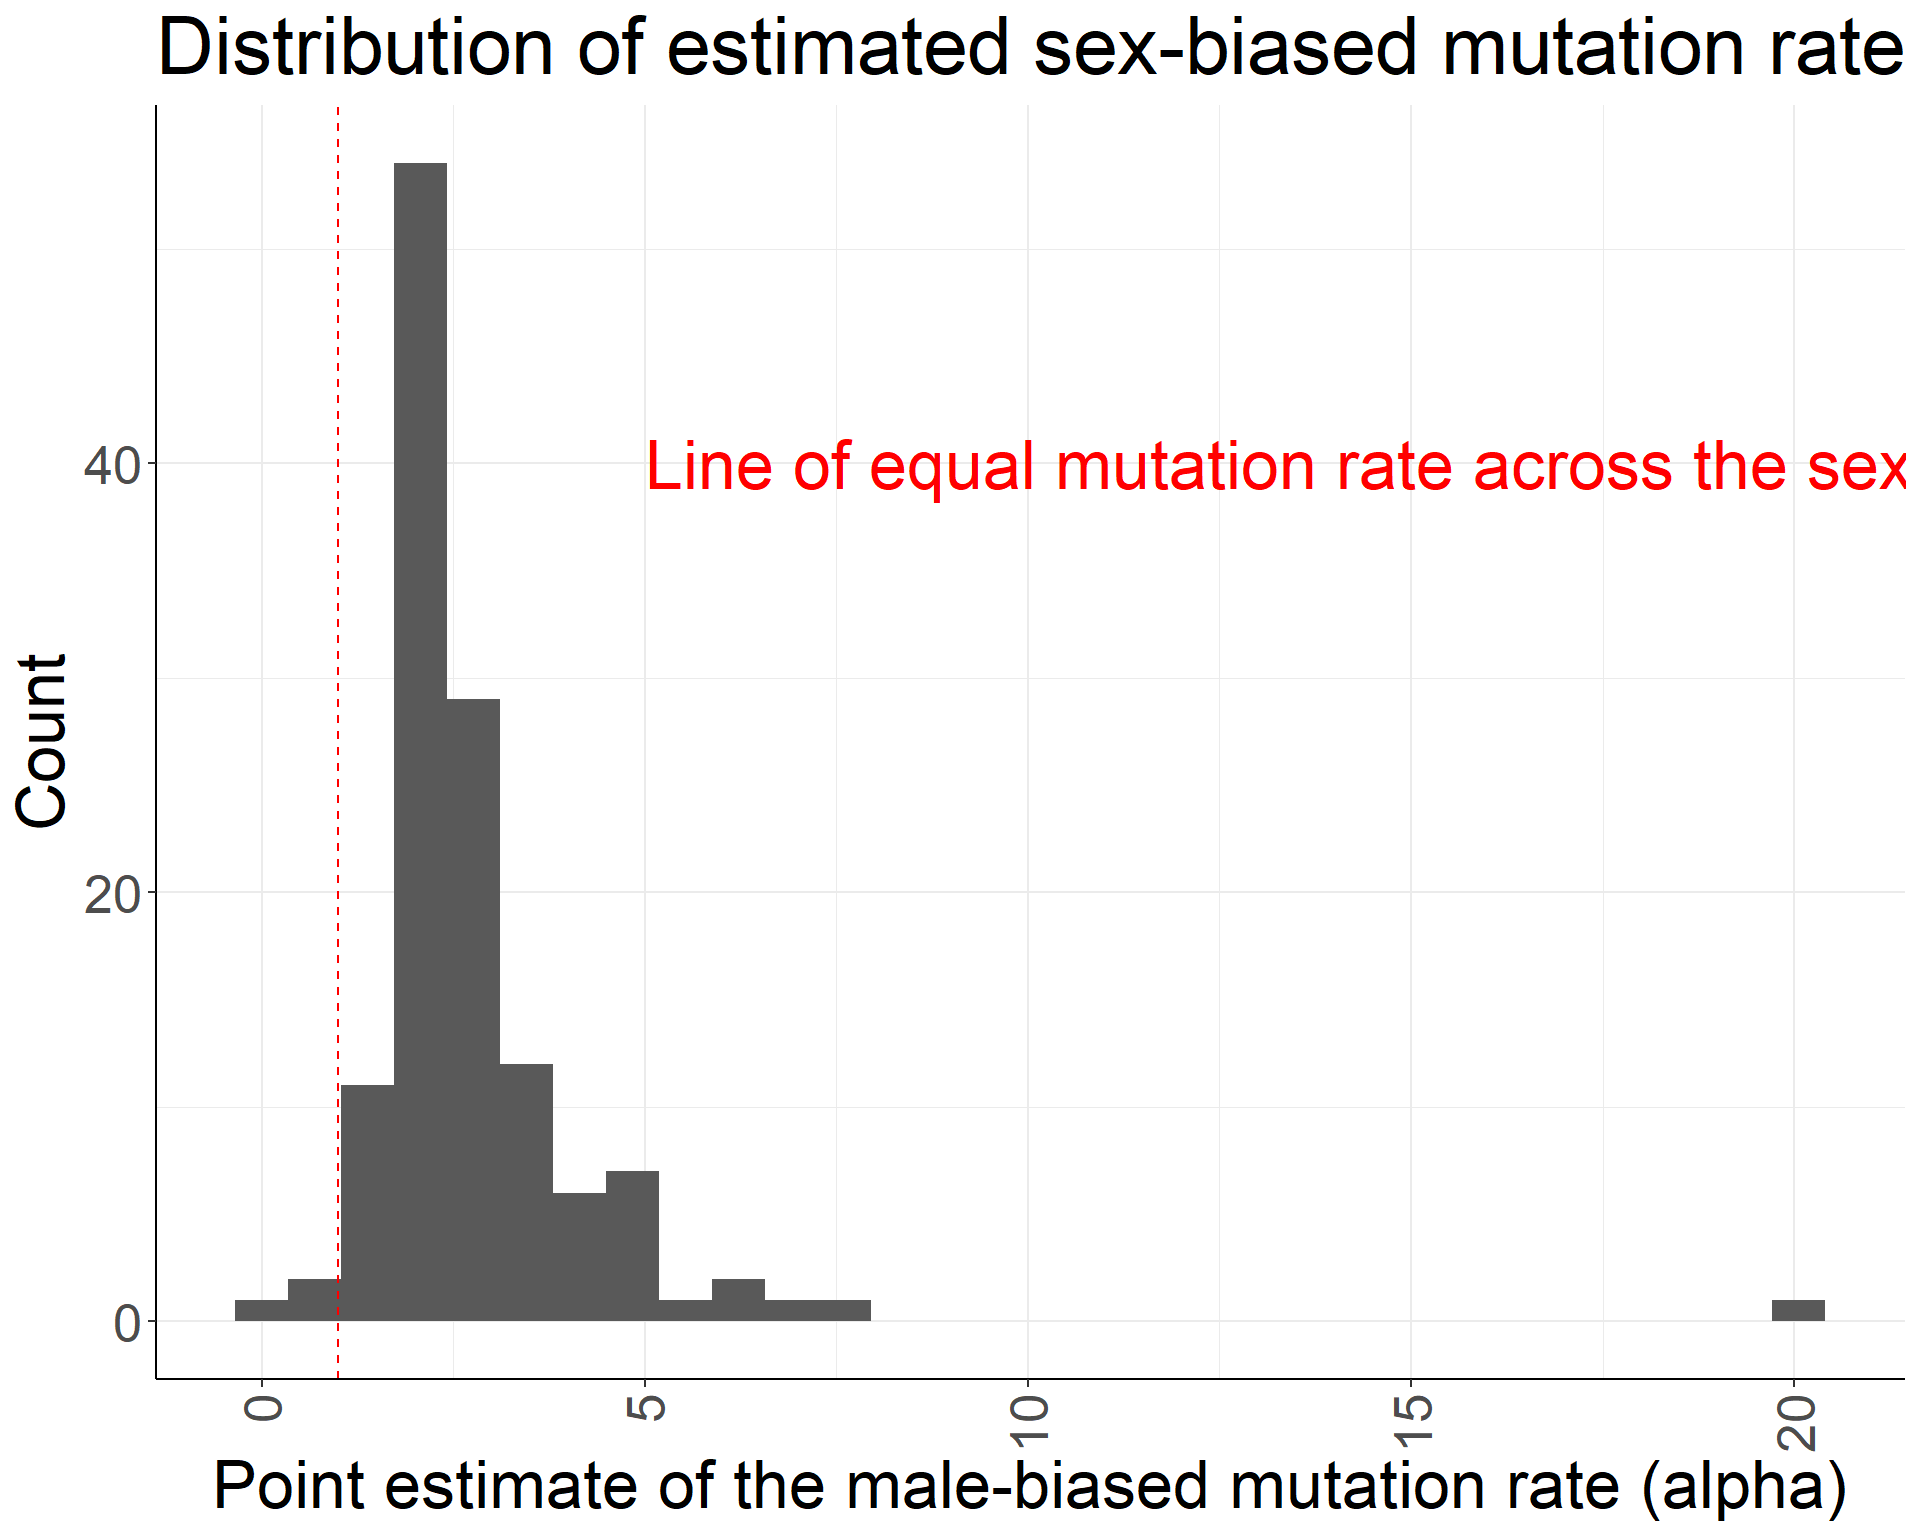
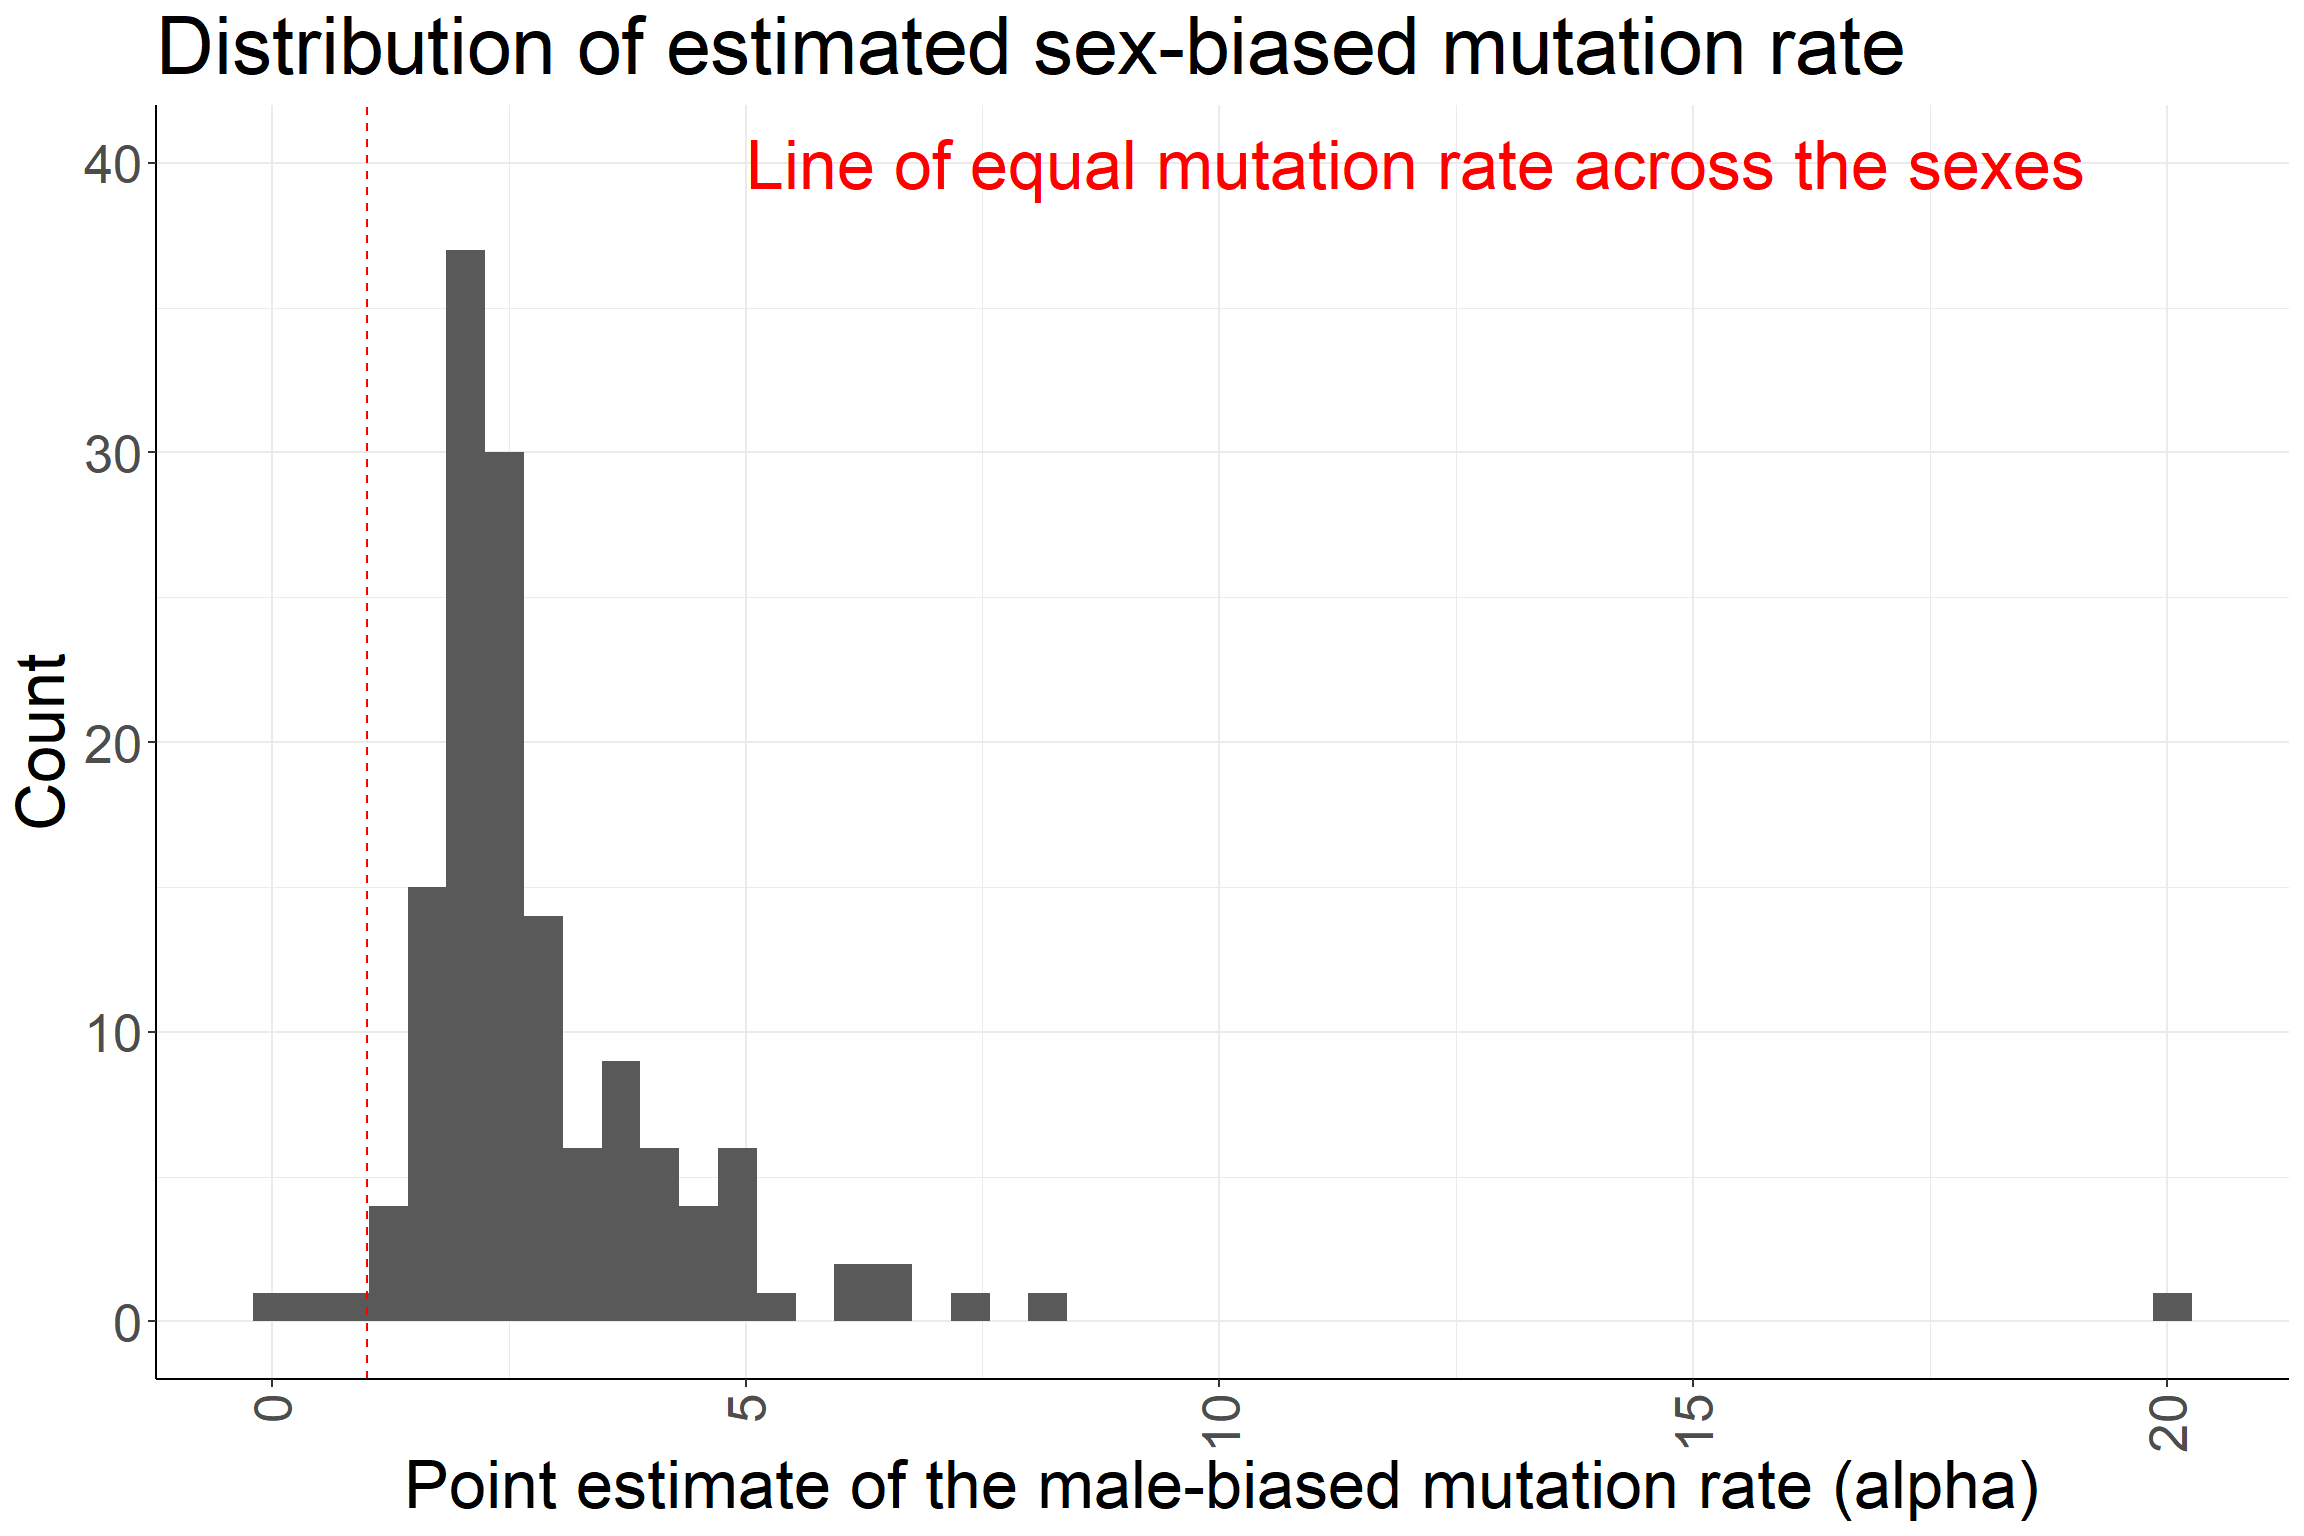
Build site.

diff --git a/docs/sex_biased_mutation_rate.html b/docs/sex_biased_mutation_rate.html
@@ -385,7 +385,7 @@ div.tocify {
 <div class="tab-content">
 <div id="summary" class="tab-pane fade in active">
 <p>
-<strong>Last updated:</strong> 2021-12-08
+<strong>Last updated:</strong> 2021-12-09
 </p>
 <p>
 <strong>Checks:</strong> <span class="glyphicon glyphicon-ok text-success" aria-hidden="true"></span> 7 <span class="glyphicon glyphicon-exclamation-sign text-danger" aria-hidden="true"></span> 0
@@ -476,16 +476,16 @@ This reproducible <a href="http://rmarkdown.rstudio.com">R Markdown</a> analysis
 <div class="panel panel-default">
 <div class="panel-heading">
 <p class="panel-title">
-<a data-toggle="collapse" data-parent="#workflowr-checks" href="#strongRepositoryversionstrongahrefhttpsgithubcomIJbeasleyunguardedxjournalclubtree3d510d6591fc35cef8002fa2a0e7c943ae8f0825targetblank3d510d6a"> <span class="glyphicon glyphicon-ok text-success" aria-hidden="true"></span> <strong>Repository version:</strong> <a href="https://github.com/IJbeasley/unguarded_x_journal_club/tree/3d510d6591fc35cef8002fa2a0e7c943ae8f0825" target="_blank">3d510d6</a> </a>
+<a data-toggle="collapse" data-parent="#workflowr-checks" href="#strongRepositoryversionstrongahrefhttpsgithubcomIJbeasleyunguardedxjournalclubtreeaf37ec4651e5ccfba01105d4a7f34705e626152etargetblankaf37ec4a"> <span class="glyphicon glyphicon-ok text-success" aria-hidden="true"></span> <strong>Repository version:</strong> <a href="https://github.com/IJbeasley/unguarded_x_journal_club/tree/af37ec4651e5ccfba01105d4a7f34705e626152e" target="_blank">af37ec4</a> </a>
 </p>
 </div>
[2 lines of base64/hex data omitted]
 <div class="panel-body">
 <p>
 Great! You are using Git for version control. Tracking code development and connecting the code version to the results is critical for reproducibility.
 </p>
 <p>
-The results in this page were generated with repository version <a href="https://github.com/IJbeasley/unguarded_x_journal_club/tree/3d510d6591fc35cef8002fa2a0e7c943ae8f0825" target="_blank">3d510d6</a>. See the <em>Past versions</em> tab to see a history of the changes made to the R Markdown and HTML files.
+The results in this page were generated with repository version <a href="https://github.com/IJbeasley/unguarded_x_journal_club/tree/af37ec4651e5ccfba01105d4a7f34705e626152e" target="_blank">af37ec4</a>. See the <em>Past versions</em> tab to see a history of the changes made to the R Markdown and HTML files.
 </p>
 <p>
 Note that you need to be careful to ensure that all relevant files for the analysis have been committed to Git prior to generating the results (you can use <code>wflow_publish</code> or <code>wflow_git_commit</code>). workflowr only checks the R Markdown file, but you know if there are other scripts or data files that it depends on. Below is the status of the Git repository when the results were generated:
@@ -529,6 +529,40 @@ Message
 </tr>
 </thead>
 <tbody>
+<tr>
+<td>
+Rmd
+</td>
+<td>
+<a href="https://github.com/IJbeasley/unguarded_x_journal_club/blob/af37ec4651e5ccfba01105d4a7f34705e626152e/analysis/sex_biased_mutation_rate.Rmd" target="_blank">af37ec4</a>
+</td>
+<td>
+Isobel Beasley
+</td>
+<td>
+2021-12-09
+</td>
+<td>
+Include dist of sex bias est by taxo class
+</td>
+</tr>
+<tr>
+<td>
+html
+</td>
+<td>
+<a href="https://rawcdn.githack.com/IJbeasley/unguarded_x_journal_club/31b9e9f0e0a8bc240273392f2566dd65e5b12f1e/docs/sex_biased_mutation_rate.html" target="_blank">31b9e9f</a>
+</td>
+<td>
+Isobel Beasley
+</td>
+<td>
+2021-12-08
+</td>
+<td>
+Build site.
+</td>
+</tr>
 <tr>
 <td>
 Rmd
@@ -595,33 +629,26 @@ sex_bias_mut_df = googlesheets4::read_sheet(&quot;https://docs.google.com/spread
 <pre><code>v Reading from &quot;Sex_bias_mutation_rate&quot;.</code></pre>
 <pre><code>v Range &#39;&#39;Alpha Estimates (each row is a single estimate)&#39;&#39;.</code></pre>
 <pre><code>New names:
-* `` -&gt; ...11
-* `` -&gt; ...12
-* `` -&gt; ...13</code></pre>
+* `` -&gt; ...13
+* `` -&gt; ...14</code></pre>
 <pre class="r"><code>head(sex_bias_mut_df)</code></pre>
-<pre><code># A tibble: 6 x 13
-  authors   year animal_name  scientific_name  alpha_point_est~ alpha_estimate_~
-  &lt;chr&gt;    &lt;dbl&gt; &lt;chr&gt;        &lt;chr&gt;                       &lt;dbl&gt;            &lt;dbl&gt;
-1 Makova ~  2002 Primates (H~ Homo sapiens;Go~             5.25             2.44
-2 Ellegre~  2003 Salmonid Fi~ Oncorhynchus ki~             5.98             5.35
-3 Bartosc~  2003 Birds (Pass~ Agelaius phoeni~             3.48             2.34
-4 Bartosc~  2003 Birds (Pass~ Cyanistes caeru~             2.43             1.67
-5 Bartosc~  2003 Birds (Pass~ Erithacus rubec~             1.7              0.88
-6 Bartosc~  2003 Birds (Char~ Stercorarius an~             4.74             3.42
-# ... with 7 more variables: alpha_estimate_upper &lt;list&gt;,
-#   method_used_to_calculate_alpha &lt;chr&gt;, upper_lower_meaning &lt;chr&gt;,
-#   other_notes &lt;chr&gt;, ...11 &lt;lgl&gt;, ...12 &lt;chr&gt;, ...13 &lt;chr&gt;</code></pre>
+<pre><code># A tibble: 6 x 14
+  authors   year taxonomic_class animal_name   scientific_name  alpha_point_est~
+  &lt;chr&gt;    &lt;dbl&gt; &lt;chr&gt;           &lt;chr&gt;         &lt;chr&gt;                       &lt;dbl&gt;
+1 Makova ~  2002 Mammalia        Primates (Hu~ Homo sapiens;Go~             5.25
+2 Ellegre~  2003 Actinopterygii  Salmonid Fish Oncorhynchus ki~             5.98
+3 Bartosc~  2003 Aves            Birds (Passe~ Agelaius phoeni~             3.48
+4 Bartosc~  2003 Aves            Birds (Passe~ Cyanistes caeru~             2.43
+5 Bartosc~  2003 Aves            Birds (Passe~ Erithacus rubec~             1.7 
+6 Bartosc~  2003 Aves            Birds (Chara~ Stercorarius an~             4.74
+# ... with 8 more variables: alpha_estimate_lower &lt;dbl&gt;,
+#   alpha_estimate_upper &lt;dbl&gt;, method_used_to_calculate_alpha &lt;chr&gt;,
+#   upper_lower_meaning &lt;chr&gt;, other_notes &lt;chr&gt;, Loci &lt;chr&gt;, ...13 &lt;chr&gt;,
+#   ...14 &lt;chr&gt;</code></pre>
 <pre class="r"><code>library(ggplot2)
-library(dplyr)</code></pre>
-<pre><code>
-Attaching package: &#39;dplyr&#39;</code></pre>
-<pre><code>The following objects are masked from &#39;package:stats&#39;:
+suppressMessages(library(dplyr))
 
-    filter, lag</code></pre>
-<pre><code>The following objects are masked from &#39;package:base&#39;:
-
-    intersect, setdiff, setequal, union</code></pre>
-<pre class="r"><code># Set up custom theme for ggplots
+# Set up custom theme for ggplots
 custom_theme &lt;-
   list(
     theme_bw() +
@@ -634,11 +661,26 @@ custom_theme &lt;-
         axis.text.x = element_text(angle = 90, hjust = 1, vjust = 0.5)
       )
   )</code></pre>
+<div id="number-of-estimates-per-taxonomic-class" class="section level2">
+<h2>Number of estimates per taxonomic class</h2>
+<pre class="r"><code>sex_bias_mut_df %&gt;% 
+  group_by(taxonomic_class) %&gt;% 
+  summarise(n = n())</code></pre>
+<pre><code># A tibble: 6 x 2
+  taxonomic_class     n
+  &lt;chr&gt;           &lt;int&gt;
+1 Actinopterygii      1
+2 Amphibia            2
+3 Arachnida           2
+4 Aves               72
+5 Mammalia           60
+6 Reptilia            5</code></pre>
+</div>
 <div id="distribution-of-sex-biased-mutation-estimates" class="section level2">
 <h2>Distribution of sex-biased mutation estimates</h2>
 <pre class="r"><code>sex_bias_mut_df %&gt;% 
   ggplot(aes(x=alpha_point_estimate)) + 
-  geom_histogram() + 
+  geom_histogram(bins = 50) + 
   labs(title = &quot;Distribution of estimated sex-biased mutation rate&quot;,
         x = &quot;Point estimate of the male-biased mutation rate (alpha)&quot;,
        y= &quot;Count&quot;) + 
@@ -653,16 +695,25 @@ custom_theme &lt;-
   col = &quot;red&quot;, 
   label = &quot;Line of equal mutation rate across the sexes&quot;
 )</code></pre>
-<pre><code>`stat_bin()` using `bins = 30`. Pick better value with `binwidth`.</code></pre>
-<p><img src="figure/sex_biased_mutation_rate.Rmd/dist_sex_est-1.png" width="960" style="display: block; margin: auto;" /></p>
+<p><img src="figure/sex_biased_mutation_rate.Rmd/dist_sex_est-1.png" width="1152" style="display: block; margin: auto;" /></p>
+<pre class="r"><code>sex_bias_mut_df %&gt;% 
+  ggplot(aes(x=alpha_point_estimate)) + 
+  geom_histogram(bins = 25) + 
+  labs(title = &quot;Distribution of estimated sex-biased mutation rate&quot;,
+        x = &quot;Point estimate of the male-biased mutation rate (alpha)&quot;,
+       y= &quot;Count&quot;) + 
+  custom_theme + 
+  geom_vline(xintercept = 1, col = &quot;red&quot;, linetype = 2) + 
+  facet_wrap(~taxonomic_class)</code></pre>
+<p><img src="figure/sex_biased_mutation_rate.Rmd/dist_sex_est-2.png" width="1152" style="display: block; margin: auto;" /></p>
 <pre class="r"><code>summary(sex_bias_mut_df$alpha_point_estimate)</code></pre>
 <pre><code>   Min. 1st Qu.  Median    Mean 3rd Qu.    Max. 
- 0.0283  2.0075  2.3650  2.8238  3.0425 20.0900 </code></pre>
+ 0.0283  2.0025  2.3852  2.8962  3.3100 20.0900 </code></pre>
 <pre class="r"><code>sex_bias_mut_df %&gt;% 
   ggplot(aes(x=alpha_point_estimate)) +
   geom_boxplot() + 
   custom_theme</code></pre>
-<p><img src="figure/sex_biased_mutation_rate.Rmd/dist_sex_est-2.png" width="960" style="display: block; margin: auto;" /></p>
+<p><img src="figure/sex_biased_mutation_rate.Rmd/dist_sex_est-3.png" width="1152" style="display: block; margin: auto;" /></p>
 <br>
 <p>
 <button type="button" class="btn btn-default btn-workflowr btn-workflowr-sessioninfo" data-toggle="collapse" data-target="#workflowr-sessioninfo" style="display: block;">
